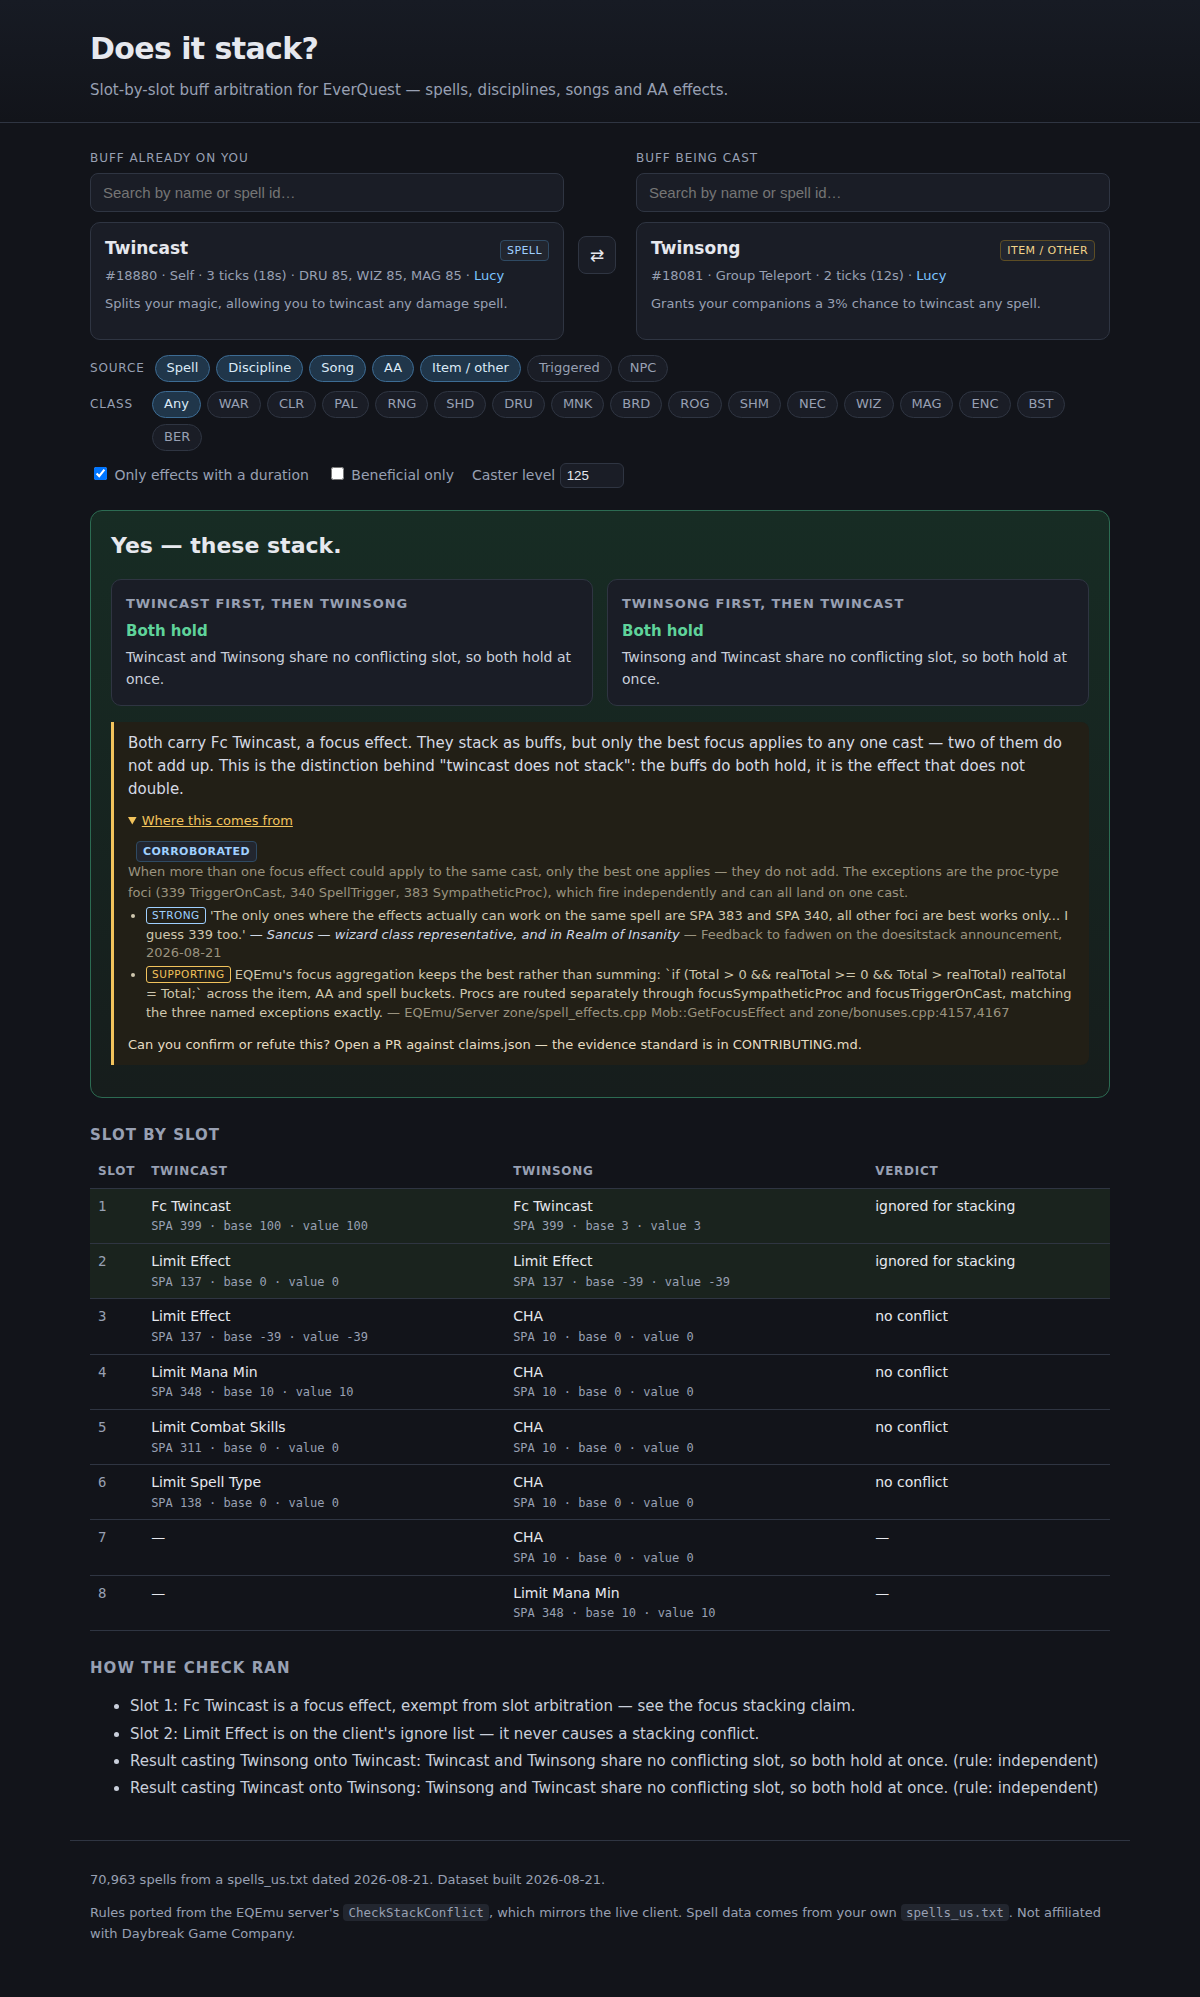
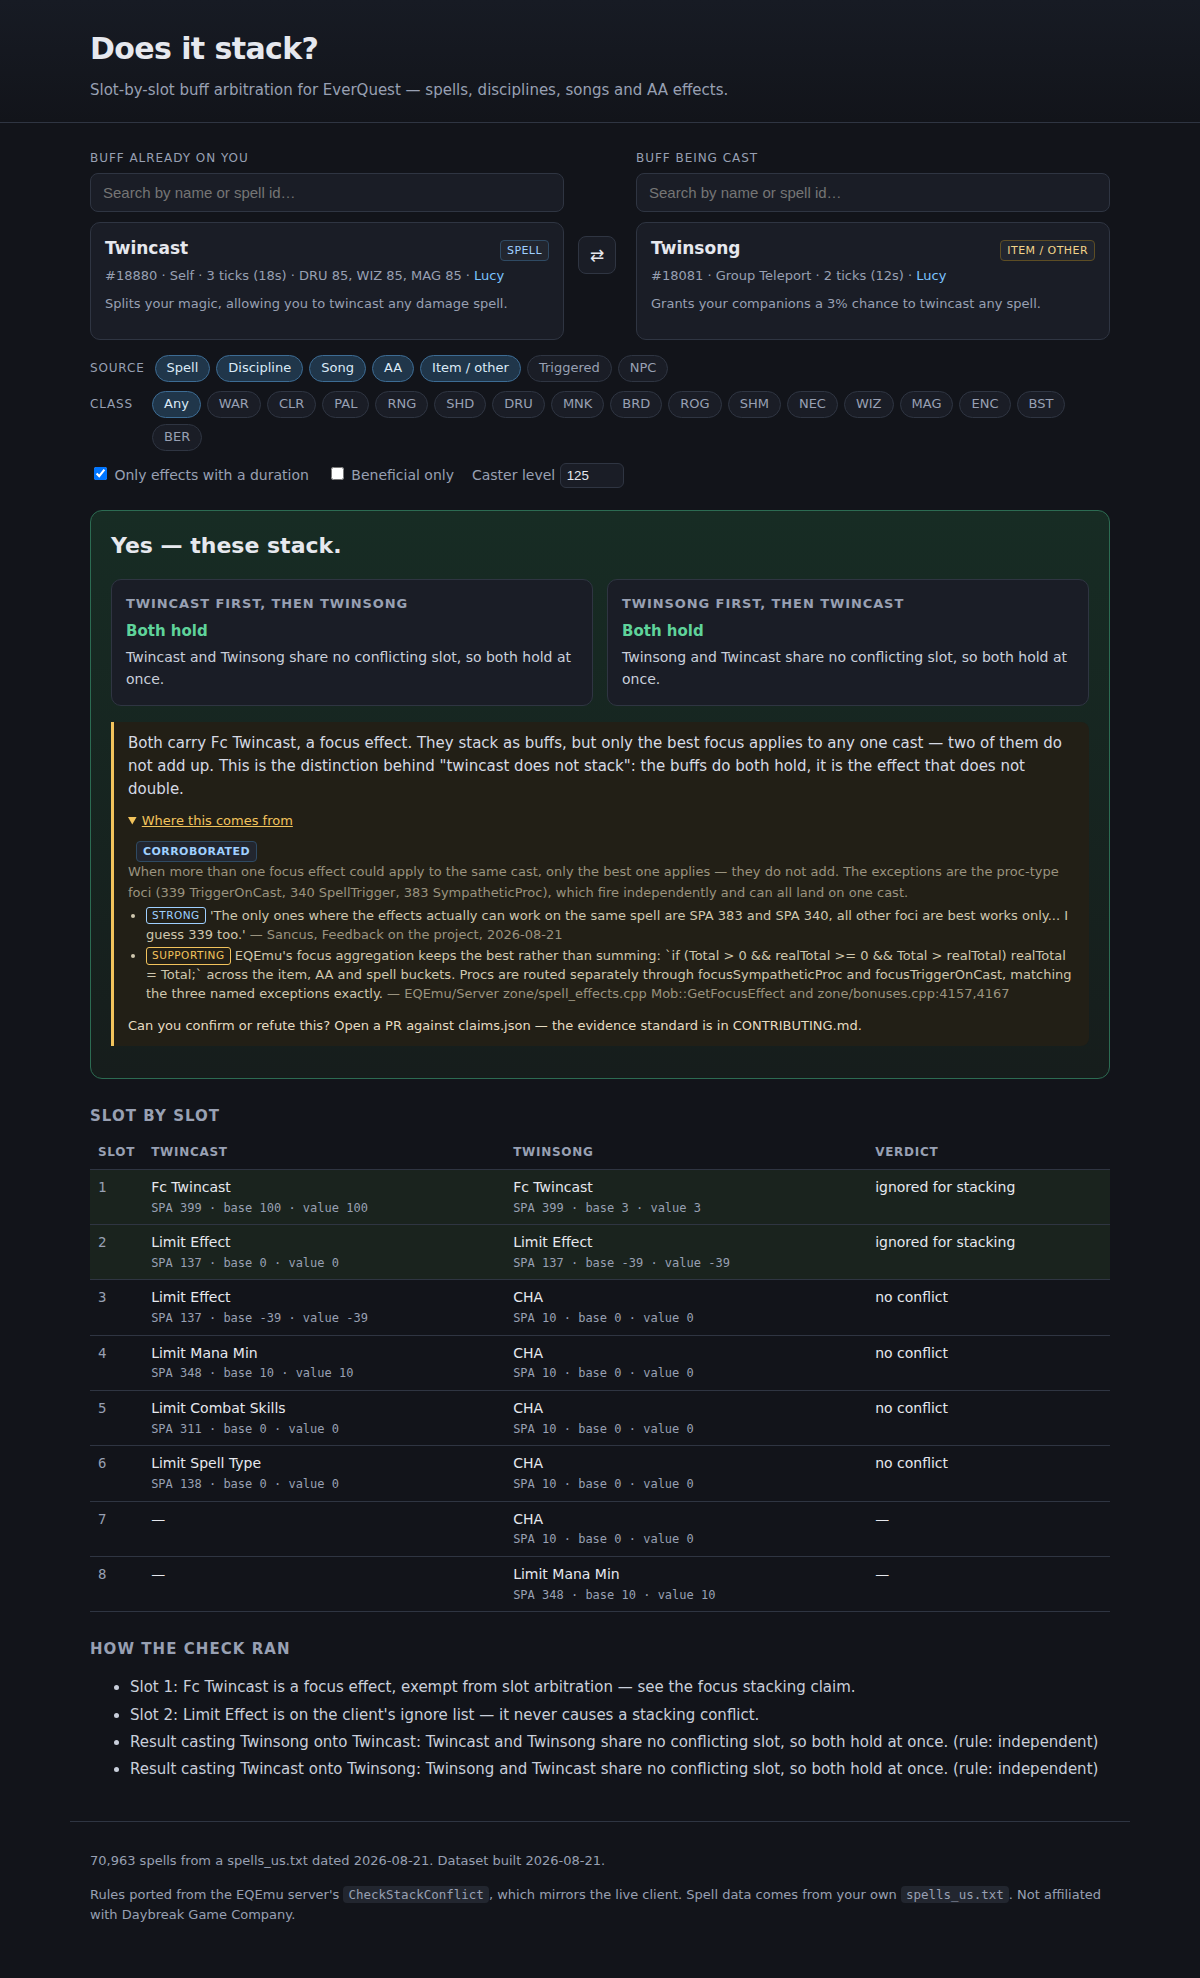
Credit contributors by name, keep credentials off the page
The attribution read as a recital of someone's guild and title in the middle
of a stacking answer. Nobody looking up whether two buffs stack needs that.

Splits the practitioner fields: `who` is the credit line and is all the site
prints; `standing` records why the report was rated strong and stays in
claims.json for whoever reviews the claim later. The reasoning still has to
be written down — the validator requires both, and rejects a `who` over 40
characters, since that is the signal someone is writing a biography where
the standing field belongs.

Renders as "— Sancus, Feedback on the project, 2026-08-21".

diff --git a/web/app.js b/web/app.js
@@ -336,8 +336,7 @@ function evidenceLine(e) {
   const li = el('li');
   li.appendChild(el('span', 'strength ' + e.strength, e.strength));
   li.appendChild(el('span', null, ` ${e.summary} `));
-  if (e.who) li.appendChild(el('span', 'who', `— ${e.who} `));
-  li.appendChild(el('span', 'src', `— ${e.source}`));
+  li.appendChild(el('span', 'src', e.who ? `— ${e.who}, ${e.source}` : `— ${e.source}`));
   return li;
 }
 

diff --git a/web/style.css b/web/style.css
@@ -98,7 +98,6 @@ h1{margin:0;font-size:30px;letter-spacing:-.02em}
 .badge.unverified{color:#f2c35c;border-color:#5d4d24}
 .badge.disputed{color:#ff7a7a;border-color:#6b2c2c}
 .evidence .src{color:#9a937f}
-.evidence .who{color:#cfd8e6;font-style:italic}
 .evidence .ask{margin-top:12px;color:#e6dcc2}
 
 table.slots{width:100%;border-collapse:collapse;margin-top:8px;font-size:14px}

diff --git a/CONTRIBUTING.md b/CONTRIBUTING.md
@@ -57,18 +57,29 @@ than an emulator's uncited implementation, not less. It is also not the same as
 Daybreak's own words — testimony can be misremembered, and mechanics change — so it
 gets its own tier rather than being called primary.
 
-A `practitioner` entry needs a **`who`** field naming the person and the standing that
-makes the report weigh. The validator enforces it, and the site prints it:
+A `practitioner` entry needs two fields, and the split matters:
+
+- **`who`** — the credit line, a name and nothing more. This is what the site prints.
+- **`standing`** — why the report weighs. This stays in `claims.json` for whoever
+  reviews the claim later and is never shipped to the page.
+
+Credit belongs on the page; credentials do not. Nobody reading a stacking answer needs
+someone's guild affiliation recited at them, but the person weighing the evidence in six
+months does need to know why it was rated `strong`.
 
 ```json
 {
   "strength": "strong",
   "kind": "practitioner",
-  "who": "Sancus — wizard class representative, and in Realm of Insanity",
+  "who": "Sancus",
+  "standing": "Wizard class representative; raids with Realm of Insanity. Reporting first-hand on mechanics central to his own class.",
   "summary": "Focus SPAs stack regardless of slot conflicts.",
-  "source": "Feedback to fadwen on the doesitstack announcement, 2026-08-21"
+  "source": "Feedback on the project, 2026-08-21"
 }
 ```
+
+The validator enforces both, and rejects a `who` longer than 40 characters — that is the
+signal you are writing a biography where the standing field belongs.
 
 ### What each status does
 
